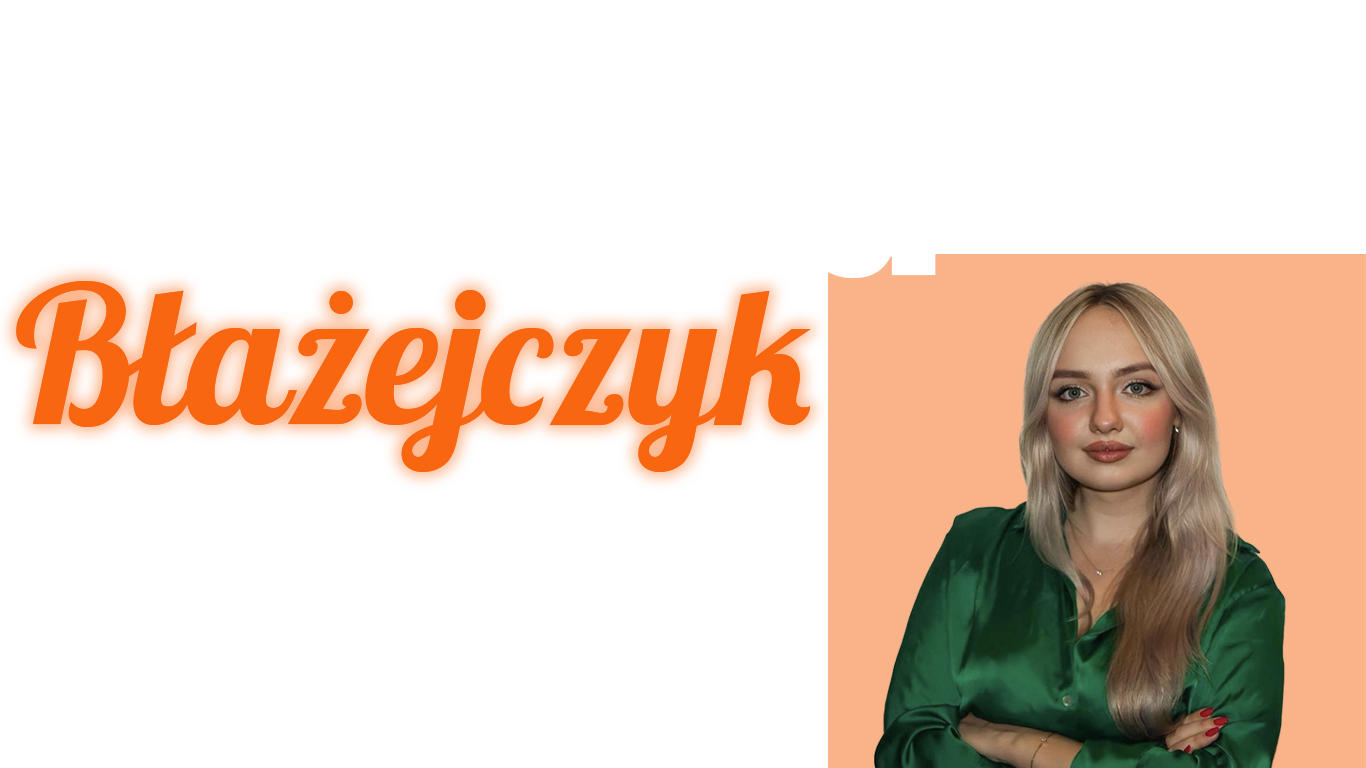
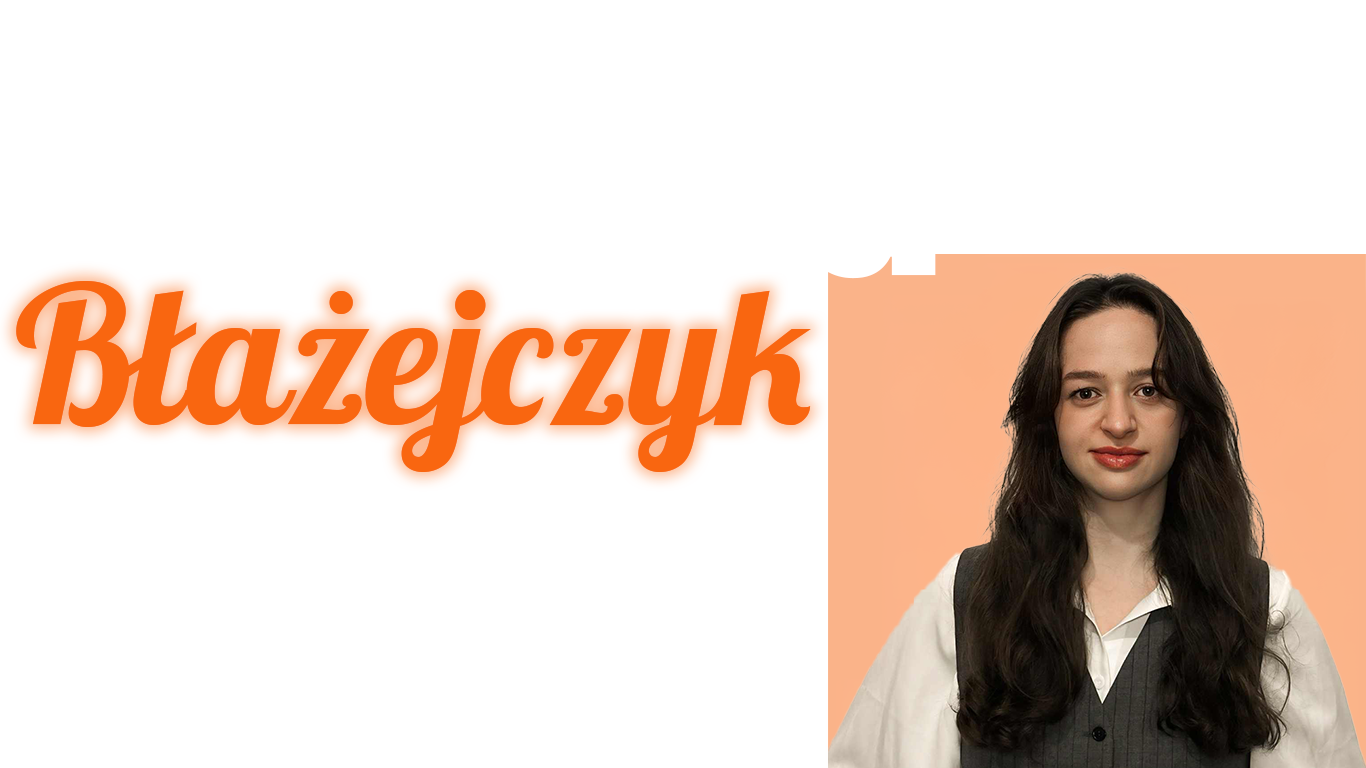
.

Changed region(s): [[0.5842, 0.3438, 1.0, 1.0]]

diff --git a/src/Contact.tsx b/src/Contact.tsx
@@ -1,6 +1,6 @@
 import "./Contact.css";
 import Klaudia from "./assets/Klaudia_photo.png";
-import Zosia from "./assets/Klaudia_photo.png";
+import Zosia from "./assets/Zosia_photo.png";
 
 const Contact = () => {
   const contacts = [
